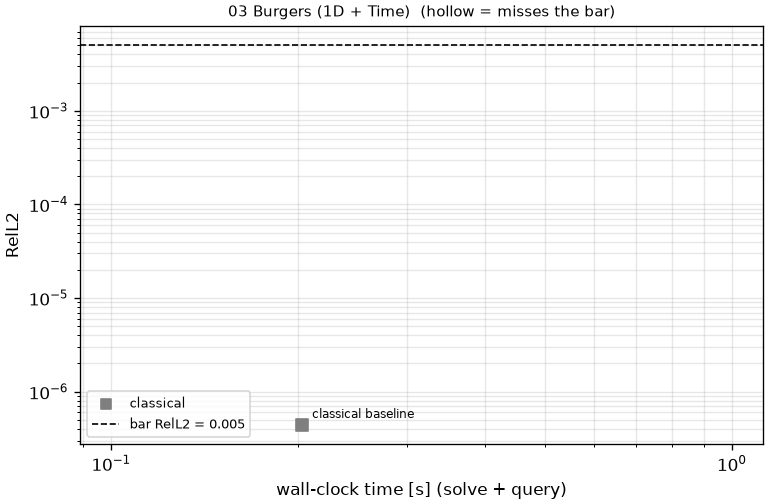
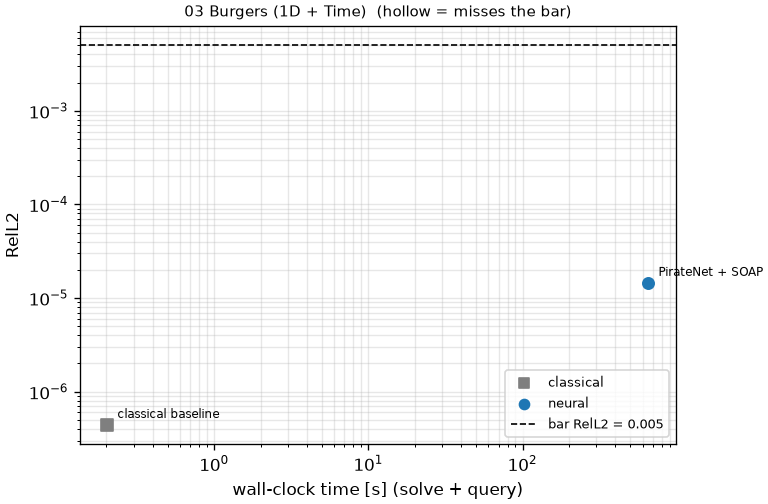
Submission 1 (FP32) results, set 1: tracks 01-04

diff --git a/README.md b/README.md
@@ -161,10 +161,10 @@ its tracker: RelL2 vs wall-clock time, one point per submission, bar dashed.
 <!-- tracks-table:begin -->
 | track | best submission | time [s] | RelL2 | RelL∞ | bar met |
 |---|---|---|---|---|---|
-| 01 VanDerPol (ODE) | — | | | | |
-| 02 DampedWave (1D + Time) | — | | | | |
-| 03 Burgers (1D + Time) | — | | | | |
-| 04 KuramotoSivashinsky (1D + Time) | — | | | | |
+| 01 VanDerPol (ODE) | [PirateNet + SOAP](tracks/track01_0DT_VanDerPol/submissions/submission_PR0001/solve.py) | 300.4 | 1.14e+00 (≤ 0.005) | 1.75e+00 (≤ 0.01) | no |
+| 02 DampedWave (1D + Time) | [PirateNet + SOAP](tracks/track02_1DT_DampedWave/submissions/submission_PR0001/solve.py) | 1001 | 1.43e-02 (≤ 0.005) | 8.14e-03 (≤ 0.01) | no |
+| 03 Burgers (1D + Time) | [PirateNet + SOAP](tracks/track03_1DT_Burgers/submissions/submission_PR0001/solve.py) | 655.6 | 1.46e-05 (≤ 0.005) | 7.56e-05 (≤ 0.01) | yes |
+| 04 KuramotoSivashinsky (1D + Time) | [PirateNet + SOAP](tracks/track04_1DT_KuramotoSivashinsky/submissions/submission_PR0001/solve.py) | 1000 | 9.31e-01 (≤ 0.05) | 1.13e+00 (≤ 0.15) | no |
 | 05 AllenCahn (1D + Time) | — | | | | |
 | 06 KdV (1D + Time) | — | | | | |
 | 07 HighContrastDiffusion (2D) | — | | | | |

diff --git a/tracks/track01_0DT_VanDerPol/README.md b/tracks/track01_0DT_VanDerPol/README.md
@@ -29,6 +29,7 @@ Current record: **0.02411 s** (record #0: classical baseline, maintainers, 2026-
 
 | date | author | name | kind | time [s] | RelL2 | RelL∞ | passes | hardware |
 |---|---|---|---|---|---|---|---|---|
+| 2026-10-30 | maintainers | PirateNet + SOAP | neural | 300.4 | 1.14e+00 | 1.75e+00 | no | NVIDIA H100 80GB HBM3 (JAX) |
 | 2026-10-30 | maintainers | record #0: classical baseline | classical | 0.02411 | 8.65e-07 | 2.68e-05 | yes | CPU (Intel(R) Xeon(R) Platinum 8481C CPU @ 2.70GHz) |
 
 ![accuracy_vs_time](figures/accuracy_vs_time.png)

diff --git a/tracks/track03_1DT_Burgers/README.md b/tracks/track03_1DT_Burgers/README.md
@@ -30,6 +30,7 @@ Current record: **0.2029 s** (record #0: classical baseline, maintainers, 2026-1
 
 | date | author | name | kind | time [s] | RelL2 | RelL∞ | passes | hardware |
 |---|---|---|---|---|---|---|---|---|
+| 2026-10-30 | maintainers | PirateNet + SOAP | neural | 655.6 | 1.46e-05 | 7.56e-05 | yes | NVIDIA H100 80GB HBM3 (JAX) |
 | 2026-10-30 | maintainers | record #0: classical baseline | classical | 0.2029 | 4.43e-07 | 6.88e-05 | yes | NVIDIA H100 80GB HBM3 |
 
 ![accuracy_vs_time](figures/accuracy_vs_time.png)

diff --git a/tracks/track02_1DT_DampedWave/README.md b/tracks/track02_1DT_DampedWave/README.md
@@ -31,6 +31,7 @@ Current record: **0.05692 s** (record #0: classical baseline, maintainers, 2026-
 
 | date | author | name | kind | time [s] | RelL2 | RelL∞ | passes | hardware |
 |---|---|---|---|---|---|---|---|---|
+| 2026-10-30 | maintainers | PirateNet + SOAP | neural | 1001 | 1.43e-02 | 8.14e-03 | no | NVIDIA H100 80GB HBM3 (JAX) |
 | 2026-10-30 | maintainers | record #0: classical baseline | classical | 0.05692 | 8.03e-16 | 7.77e-16 | yes | NVIDIA H100 80GB HBM3 |
 
 ![accuracy_vs_time](figures/accuracy_vs_time.png)

diff --git a/tracks/track04_1DT_KuramotoSivashinsky/README.md b/tracks/track04_1DT_KuramotoSivashinsky/README.md
@@ -23,4 +23,10 @@ published data (jaxpi)
 
 ## Records
 
-No records yet.
+Current record: **1000 s** (PirateNet + SOAP, maintainers, 2026-10-30, NVIDIA H100 80GB HBM3 (JAX)).
+
+| date | author | name | kind | time [s] | RelL2 | RelL∞ | passes | hardware |
+|---|---|---|---|---|---|---|---|---|
+| 2026-10-30 | maintainers | PirateNet + SOAP | neural | 1000 | 9.31e-01 | 1.13e+00 | no | NVIDIA H100 80GB HBM3 (JAX) |
+
+![accuracy_vs_time](figures/accuracy_vs_time.png)
